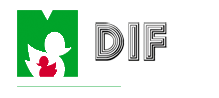
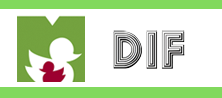
modificando algunos estilos de la principal

diff --git a/css/twbscolor2.css b/css/twbscolor2.css
@@ -3,8 +3,9 @@
     Author     : Weiss
 */
 .navbar-default {
-  background-color: #ffffff;
-  border-color: #FFFFFF;
+  background-color: transparent;
+  border-color: transparent;
+
 }
 .navbar-default .navbar-brand {
   color: #b50031;
@@ -16,7 +17,7 @@
   color: #b50031;
 }
 .navbar-default .navbar-nav > li > a {
-  color: #b50031;
+  color: white;
 }
 .navbar-default .navbar-nav > li > a:hover, .navbar-default .navbar-nav > li > a:focus {
   color: #5aa239;
@@ -52,12 +53,23 @@
 @media (max-width: 767px) {
   .navbar-default .navbar-nav .open .dropdown-menu > li > a {
     color: #b50031;
+
   }
+  .navbar-collapse ul li {
+               background-color: #46AF4A;
+  }
+  #navbar ul li a:hover{
+      color:#B50031;
+  }
+
   .navbar-default .navbar-nav .open .dropdown-menu > li > a:hover, .navbar-default .navbar-nav .open .dropdown-menu > li > a:focus {
-    color: #5aa239;
+   color: #5aa239;
+
+
   }
   .navbar-default .navbar-nav .open .dropdown-menu > .active > a, .navbar-default .navbar-nav .open .dropdown-menu > .active > a:hover, .navbar-default .navbar-nav .open .dropdown-menu > .active > a:focus {
     color: #5aa239;
     background-color: #b50031;
+    
   }
 }

diff --git a/css/municipio1.css b/css/municipio1.css
@@ -16,7 +16,7 @@
     width: 100%;
     height: 200px;
 }
-#menu_principal { background-image: url('../Recursos/header.png'); background-repeat: no-repeat; background-position: center center; }
+#menu_principal { background-image: url('../Recursos/header.jpg'); background-repeat: no-repeat; background-position: center center; }
 
 .regidores {
     border-radius: 25px;

diff --git a/php/boletin_informativo_2.php b/php/boletin_informativo_2.php
@@ -1,13 +1,28 @@
 <div class="modal-header">
     <button type="button" class="close" data-dismiss="modal" aria-hidden="true">&times;</button>
-    <h4 class="modal-title">Boletin informativo 2</h4>
+    <h4 class="modal-title">BALANCE DE TRABAJO DEL PRESIDENTE MUNICIPAL JOSE EDUARDO “CUCO” ROVIROSA RAMIREZ, EN LOS PRIMEROS 15 DIAS DE ACTIVIDADES RUMBO A LAS METAS DE LOS 100 DIAS DE GOBIERNO</h4>
 </div>
 <div class="modal-body">
     <div class="te">
-        <img src="img/boletin/boletin2.png" alt="Boletin informativo 2" class="img-responsive" style="margin: 0 auto;"/><br/>
-        <p class="text-justify">Lorem ipsum ad his scripta blandit partiendo, eum fastidii accumsan euripidis in, eum liber hendrerit an. Qui ut wisi vocibus suscipiantur, quo dicit ridens inciderint id. Quo mundi lobortis reformidans eu, legimus senserit definiebas an eos. Eu sit tincidunt incorrupte definitionem, vis mutat affert percipit cu, eirmod consectetuer signiferumque eu per. In usu latine equidem dolores. Quo no falli viris intellegam, ut fugit veritus placerat per.</p>
-        <p class="text-justify">Ius id vidit volumus mandamus, vide veritus democritum te nec, ei eos debet libris consulatu. No mei ferri graeco dicunt, ad cum veri accommodare. Sed at malis omnesque delicata, usu et iusto zzril meliore. Dicunt maiorum eloquentiam cum cu, sit summo dolor essent te. Ne quodsi nusquam legendos has, ea dicit voluptua eloquentiam pro, ad sit quas qualisque. Eos vocibus deserunt quaestio ei.</p>
-        <p class="text-justify">Blandit incorrupte quaerendum in quo, nibh impedit id vis, vel no nullam semper audiam. Ei populo graeci consulatu mei, has ea stet modus phaedrum. Inani oblique ne has, duo et veritus detraxit. Tota ludus oratio ea mel, offendit persequeris ei vim. Eos dicat oratio partem ut, id cum ignota senserit intellegat. Sit inani ubique graecis ad, quando graecis liberavisse et cum, dicit option eruditi at duo. Homero salutatus suscipiantur eum id, tamquam voluptaria expetendis ad sed, nobis feugiat similique usu ex.</p>
+        <img src="img/boletin/2_1.jpg" alt="Boletin informativo 2" class="img-responsive" style="margin: 0 auto;"/><br/>
+        <p class="text-justify">Macuspana (16-01-2016).- “Estoy comprometido a que mi gobierno sea de intensa y estrecha comunicación con el pueblo, por lo cual estaré informando puntualmente de todas y cada una de las acciones emprendidas para cambiarle el rostro a Macuspana, para responder a esa confianza y apoyo que he encontrado en la sociedad, la cual se encontraba muy agraviada por la desatención”, manifestó en entrevista el presidente municipal José Eduardo “Cuco” Rovirosa Ramírez.</p>
+        <p class="text-justify">Al ajustar las dos primeras semanas de actividades, en las cuales se ha desplegado un intenso trabajo de atención social, el presidente municipal José Eduardo “Cuco” Rovirosa Ramírez hizo un balance de los logros alcanzados, señalando que rumbo a la meta de los “Primeros 100 días de gobierno” se están dando resultados concretos en los rubros de Bacheo en la cabecera municipal y accesos carreteros importantes, así como en el tema del saneamiento del agua potable, la cual llegaba con lodo y bacterias a las tomas domiciliarias.</p>
+        <p class="text-justify">Al respecto, el alcalde de Macuspana informó que se ha logrado controlar las decenas de fugas en las tuberías de agua, principalmente en las líneas de alta presión, para lo cual personal de Sapam abrió orificios de gran profundidad en las calles Reforma, Vicente Guerrero, Alatorre, Circunvalación y León Alejo Torres, por donde se escapaba gran cantidad del vital líquido, lo cual impedía el tratamiento del agua con los químicos requeridos.</p>
+        <p class="text-justify">En estos momentos, dijo, estoy en la condición de informarles que el agua que está llegando a los hogares está completamente saneada y tratada, por lo cual está libre de gérmenes y bacterias que ponían en riesgo la salud pública.</p>
+        <p class="text-justify"> Para ello se adquirieron sustancias químicas para el tratamiento del agua como son los polímeros, gas cloro y una pipa con diez mil litros de sulfato, además de que se lleva a cabo la limpieza integral y desinfección de tanques, filtros y cisterna general. </p>
+        <p class="text-justify">Poco a poco se irá aclarando el agua. Además, se solicitó la intervención de la CONAGUA y el CEAS para darle atención al Sistema de Captación sobre el río Puxcatán, porque debido a la falta de mantenimiento durante años se encuentra azolvada y esto provoca que el agua enviada a la planta se encuentra muy sucia, lo cual daña las bombas y provoca interrupciones en el servicio.</p>
+        <p class="text-justify">De igual forma, se da atención a los cárcamos ubicados en diferentes puntos de la ciudad, los cuales estaban totalmente azolvados, los cuales se están interviniendo con dos camiones tipo Vactor y se solicitó un tercero al gobierno del estado para avanzar más rápido, al tiempo que se revisan las condiciones de las bombas para dejarlas en condiciones normales de funcionamiento.</p>
+        <p class="text-justify">Les comento a los habitantes de las comunidades que también vamos a llegar con la atención a ellos y atender su demanda para que en donde tengan problemas con las bombas o carezcan de ellas se les dé solución y no padezcan la falta del servicio de agua.</p>
+        <p class="text-justify">Como presidente municipal le pido mil disculpas a la ciudadanía por las molestias ocasionadas, sólo les pido que me tengan paciencia y me den un voto de confianza, para sacar a Macuspana de tantos baches. La verdad es que hacía falta atacarlos fuertemente, ya que no eran uno ni dos, y lo estamos haciendo a marchas forzadas, con toda energía, para restablecer la vialidad lo más pronto posible y que los automovilistas ya no sufran por el daño a las piezas mecánicas de sus unidades.</p>
+        <p class="text-justify">Les comento que estoy muy contento con las empresas y ciudadanos de Macuspana por su solidaridad y respeto con esta cruzada de trabajo emprendida rumbo a los “Primeros 100 días de gobierno municipal”, lo cual me obliga a caminar muy solo, sin escoltas y sin policías, para no quitarle la oportunidad a la gente de platicar libremente y saludar a su presidente. Camino diariamente las calles de Macuspana, visito los mercados públicos y disfruto la rica gastronomía con que cuentan, las cuales les recomiendo ampliamente para venir a disfrutar con sus familias. Quiero ganarme el respeto y la confianza de todos, con trabajo y servicio de calidad, por eso desde las 6 de la mañana me encuentran en la puerta de entrada al Palacio Municipal atendiendo a la ciudadanía que viene de las comunidades y colonias, hablándoles de frente y con la verdad, diciéndoles con franqueza lo que se puede y lo que no se puede hacer. </p>
+        <p class="text-justify">Estamos trabajando en Ciudad Pemex, con la rehabilitación y mantenimiento del parque lineal; en Villa Benito Juárez (San Carlos) con bacheo y reparación de los accesos carreteros, desazolve de drenajes y reforzamiento en la recolección de basura.</p>
+        <p class="text-justify">Con apoyo de la Junta Estatal y Local de Caminos, de la mano del ingeniero Rubén Cabrales Quiñonez, resolvimos el pésimo estado del tramo carretero de acceso a la cabecera municipal, bajo el puente a desnivel de la carretera federal Villahermosa-Escárcega, frente a la glorieta “Carlos A. Madrazo”, y el correspondiente a la Avenida Tecnológico que da acceso a la colonia Belén.</p>
+        <p class="text-justify">Y en lo que corresponde al tramo de 5 kilómetros de la carretera del poblado Aquiles Serdán (San Fernando) a la Y Griega de San Carlos, tenemos informes que sus pobladores concretaron un acuerdo con la empresa Mayakán para proceder a su rehabilitación, pues se encuentra en deplorables condiciones que dificultan el tránsito, y estaremos muy al pendiente de su avance.</p>
+        <p class="text-justify">Con respecto al mantenimiento de caminos en las comunidades rurales, que ha sido la demanda constante de los delegados municipales, se están haciendo las gestiones respectivas en coordinación con las autoridades comunitarias para solicitar al gobierno del estado su apoyo, pues cuento con el cariño y solidaridad de los amigos socios de la Unión de Volqueteros de Macuspana para tirar la grava en los caminos dañados una vez que tengamos a la mano los vales que necesitamos.</p>
+        <p class="text-justify">Quiero decirles a los amigos de las Uniones de Taxis del municipio y que lo tengan bien presente, que próximamente buscaré entrevistarme con las autoridades federales de la SCT, para gestionar el mejoramiento de las condiciones del tramo carretero que va de la Caseta de Cobro de Dos Montes a Macuspana, porque representa un serio riesgo a la seguridad de los automovilistas y grandes daños para sus unidades.</p>
+        <p class="text-justify">El alcalde José Eduardo “Cuco” Rovirosa anunció que a partir del 1 de febrero darán inicio los operativos de tránsito, porque no podemos dejar a la ciudadanía indefensa. Por lo cual invitó a todos los conductores a regularizar sus documentos y vehículos motorizados, a retirar los polarizados, hacer uso del cinturón de seguridad, no hablar por el celular si está conduciendo. El llamado incluye tanto a los propietarios de vehículos como a tricicleros y motociclistas. No vengo a asaltar a nadie, ni vengo a querer resolver los problemas de Macuspana con las multas de los ciudadanos, para eso me pinto solo como gestor, pero no podemos dejar indefensa a la sociedad ante cualquier atropello o accidentes que pueda suscitarse, subrayó.</p>
+        <p class="text-justify">En cuanto a las críticas constructivas son bien aceptadas, las atenderemos para mejorar; pero a los golpes mediáticos y sin sustento haremos oídos sordos, porque nadie me va a parar, nadie me va a detener en el objetivo de lograr el progreso para mi pueblo y poner su reloj a tiempo. Que ladren todo lo que quieren, que yo seguiré trabajando arduamente y sin descanso para devolverle la esperanza a Macuspana de tener un mejor futuro.</p>
+        <p class="text-justify">Para concluir, el primer regidor del Ayuntamiento de Macuspana, sobre la relación y colaboración con el gobierno del estado, puntualizó que “estoy muy contento con el gobernador Arturo Núñez y con su esposa, la señora Martha Lilia López Aguilera. La presidenta del DIF estatal le ha brindado una excelente atención a mi esposa Crystel, incluso la acompañó en los primeros días de este mes a la entrega de juguetes en la ranchería Bonanza segunda sección; y con el gobernador les puedo  decir que tenemos una relación de lujo. Los presidentes municipales de otro partido ajenos al suyo  le aprendimos que para el licenciado Núñez el  día 7 de junio ya pasó y quedó atrás, lo único que quiere como gobernador es trabajar bien por Macuspana y por el estado, es un hombre con pasión para componer a Tabasco”.</p>
     </div>
 </div>
 <div class="modal-footer">

diff --git a/index.php b/index.php
@@ -32,17 +32,13 @@
                         <div class="carousel-inner" role="listbox">
 
                             <div class="item active">
-                                <img src="img/slider/imagen1slide.png" alt="Macuspana1"/>
+                                <img src="img/slider/imagen1slide.jpg" alt="Macuspana1"/>
                                 <div class="carousel-caption">
-                                    <h3>Macuspana</h3>
-                                    <p>Lorem ipsum ad his scripta blandit partiendo, eum fastidii accumsan euripidis in, eum liber hendrerit an.</p>
-                                </div>
+                             </div>
                             </div>
                             <div class="item">
-                                <img src="img/slider/imagenslide2.png" alt="Macuspana2">
+                                <img src="img/slider/imagen1slide.jpg" alt="Macuspana2">
                                 <div class="carousel-caption">
-                                    <h3>Macuspana</h3>
-                                    <p>Lorem ipsum ad his scripta blandit partiendo, eum fastidii accumsan euripidis in, eum liber hendrerit an.</p>
                                 </div>
                             </div>
                         </div>
@@ -62,7 +58,7 @@
                 <div class="col-md-12" >
                     <div class="row">
                         <div class="col-md-12" >
-                            <h1 class="visible-md visible-lg">Último tweet</h1>
+                            <h1 class="visible-md visible-lg" style="margin-top: 20px"></h1>
                             <h2 class="visible-xs visible-sm text-center">Último tweet</h2>
                         </div>
                         <div class="col-md-12">
@@ -72,59 +68,78 @@
                 </div>
             </div>
             <div class="row" id="boletines_informativos">
-                <div class="col-md-12">
-                    <h1 class="visible-md visible-lg">Boletines informativos</h1>
-                    <h2 class="visible-xs visible-sm text-center">Boletines informativos</h2>
+                <div class="col-md-12" style="margin-top: 20px">
+
+                 
                 </div>
-                <div class="col-sm-6 col-md-3">
-                    <img src="img/boletin/boletin1.png" alt="Boletin1" class="img-responsive"/><br/>
-                    <p class="text-justify">Lorem ipsum ad his scripta blandit partiendo, eum fastidii accumsan euripidis in, eum liber hendrerit an. Qui ut wisi vocibus suscipiantur, quo dicit ridens inciderint id. Quo mundi lobortis reformidans eu, legimus senserit definiebas an eos. </p>
+                <div class="col-sm-6 col-md-3" >
+                    <img src="img/boletin/1.jpg" alt="Boletin1" class="img-responsive"/><br/>
+                    <p class="text-justify">EL GOBIERNO MUNICIPAL DE MACUSPANA FOMENTA EL DEPORTE CIENCIA </p>
                     <div class="visible-md visible-lg"><a href="javascript:void(0);" data-toggle="modal" data-remote="php/boletin_informativo_1.php" data-target="#mDetalleBoletin" class="btn btn-success">Leer más</a></div>
                     <div class="visible-xs visible-sm text-center"><a href="javascript:void(0);" data-toggle="modal" data-remote="php/boletin_informativo1.php" data-target="#mDetalleBoletin" class="btn btn-success">Leer más</a></div>
                     <br class="visible-xs visible-sm"/>
                 </div>
                 <div class="col-sm-6 col-md-3">
-                    <img src="img/boletin/boletin2.png" alt="Boletin2" class="img-responsive"/><br/>
-                    <p class="text-justify">Lorem ipsum ad his scripta blandit partiendo, eum fastidii accumsan euripidis in, eum liber hendrerit an. Qui ut wisi vocibus suscipiantur, quo dicit ridens inciderint id. Quo mundi lobortis reformidans eu, legimus senserit definiebas an eos. </p>
+                    <img src="img/boletin/2.png" alt="Boletin2" class="img-responsive"/><br/>
+                    <p class="text-justify">15 DIAS DE ACTIVIDADES DEL PRESIDENTE MUNICIPAL JOSE EDUARDO “CUCO” ROVIROSA RAMIREZ</p>
                     <div class="visible-md visible-lg"><a href="javascript:void(0);" data-toggle="modal" data-remote="php/boletin_informativo_2.php" data-target="#mDetalleBoletin" class="btn btn-success">Leer más</a></div>
                     <div class="visible-xs visible-sm text-center"><a href="javascript:void(0);" data-toggle="modal" data-remote="php/boletin_informativo2.php" data-target="#mDetalleBoletin" class="btn btn-success">Leer más</a></div>
                     <br class="visible-xs visible-sm"/>
                 </div>
                 <div class="clearfix visible-sm-block"></div>
                 <div class="col-sm-6 col-md-3">
-                    <img src="img/boletin/boletin3.png" alt="Boletin3" class="img-responsive"/><br/>
-                    <p class="text-justify">Lorem ipsum ad his scripta blandit partiendo, eum fastidii accumsan euripidis in, eum liber hendrerit an. Qui ut wisi vocibus suscipiantur, quo dicit ridens inciderint id. Quo mundi lobortis reformidans eu, legimus senserit definiebas an eos. </p>
+                    <img src="img/boletin/3.jpg" alt="Boletin3" class="img-responsive"/><br/>
+                    <p class="text-justify">PROMUEVE GOBIERNO DE MACUSPANA REFORZAMIENTO DE LA CULTURA DE LA SEGURIDAD Y EL RESPETO A LA LEY DE TRANSITO Y VIALIDAD </p>
                     <div class="visible-md visible-lg"><a href="javascript:void(0);" data-toggle="modal" data-remote="php/boletin_informativo_3.php" data-target="#mDetalleBoletin" class="btn btn-success">Leer más</a></div>
                     <div class="visible-xs visible-sm text-center"><a href="javascript:void(0);" data-toggle="modal" data-remote="php/boletin_informativo3.php" data-target="#mDetalleBoletin" class="btn btn-success">Leer más</a></div>
                     <br class="visible-xs visible-sm"/>
                 </div>
                 <div class="col-sm-6 col-md-3">
-                    <img src="img/boletin/boletin4.png" alt="Boletin4" class="img-responsive"/><br/>
-                    <p class="text-justify">Lorem ipsum ad his scripta blandit partiendo, eum fastidii accumsan euripidis in, eum liber hendrerit an. Qui ut wisi vocibus suscipiantur, quo dicit ridens inciderint id. Quo mundi lobortis reformidans eu, legimus senserit definiebas an eos. </p>
+                    <img src="img/boletin/4.jpg" alt="Boletin4" class="img-responsive"/><br/>
+                    <p class="text-justify">RESTABLECIMIENTO DE SERVICIOS MUNICIPALES, BACHEO Y AGUA DE CALIDAD PARA LA POBLACIÓN</p>
                     <div class="visible-md visible-lg"><a href="javascript:void(0);" data-toggle="modal" data-remote="php/boletin_informativo_4.php" data-target="#mDetalleBoletin" class="btn btn-success">Leer más</a></div>
                     <div class="visible-xs visible-sm text-center"><a href="javascript:void(0);" data-toggle="modal" data-remote="php/boletin_informativo4.php" data-target="#mDetalleBoletin" class="btn btn-success">Leer más</a></div>
                     <br class="visible-xs visible-sm"/>
                 </div>
+                
                 <div class="clearfix visible-sm-block"></div>
                 <div class="clearfix visible-md-block"></div>
             </div>
-            <div class="row top-buffer" id="banners">
+                  <div class="row top-buffer" id="banners">
                 <div class="col-sm-6 col-md-6"><img src="Recursos/logo_videoteca.png" alt="" class="img-responsive"/></div>
                 <div class="col-sm-6 col-md-6"><img src="Recursos/GALERIA.png" alt="" class="img-responsive"/></div>
                 <div class="clearfix visible-md-block"></div>
                 <div class="clearfix visible-sm-block"></div>
-                <div class="col-xs-6 col-sm-3 col-md-3 marco">
-                    <img src="Recursos/itaip.png" alt="" class="img-responsive"/>
-                </div>
-                <div class="col-xs-6 col-sm-3 col-md-3 marco">
+                <div class="col-xs-6 col-sm-3 col-md-3 ">
                     <img src="Recursos/SINHAMBRE.png" alt="" class="img-responsive"/>
                 </div>
-                <div class="clearfix visible-xs-block"></div>
-                <div class="col-xs-6 col-sm-3 col-md-3 marco">
+                <div class="col-xs-6 col-sm-3 col-md-3 ">
                     <img src="Recursos/dif.png" alt="" class="img-responsive"/>
                 </div>
-                <div class="col-xs-6 col-sm-3 col-md-3 marco">
+                <div class="clearfix visible-xs-block"></div>
+                <div class="col-xs-6 col-sm-3 col-md-3 ">
                     <img src="Recursos/PROTECCIONCIVILMASCUSPANA.png" alt="" class="img-responsive"/>
+                </div>
+                <div class="col-xs-6 col-sm-3 col-md-3 ">
+                
+                </div>
+                <div class="clearfix visible-xs-block"></div>
+                <div class="clearfix visible-md-block"></div>
+                <div class="clearfix visible-sm-block"></div>
+            </div>
+            <div class="row top-buffer" id="banners">
+                <div class="col-xs-6 col-sm-3 col-md-3 ">
+                    <img src="Recursos/banner_transparencia.png" alt="" class="img-responsive"/>
+                </div>
+                <div class="col-xs-6 col-sm-3 col-md-3 ">
+                    <img src="Recursos/itaip.png" alt="" class="img-responsive"/>
+                </div>
+                <div class="clearfix visible-xs-block"></div>
+                <div class="col-xs-6 col-sm-3 col-md-3 ">
+                    <img src="Recursos/banner_encuesta.png" alt="" class="img-responsive"/>
+                </div>
+                <div class="col-xs-6 col-sm-3 col-md-3 ">
+                    <img src="Recursos/banner_infomex.png" alt="" class="img-responsive"/>
                 </div>
                 <div class="clearfix visible-xs-block"></div>
                 <div class="clearfix visible-md-block"></div>

diff --git a/php/boletin_informativo_4.php b/php/boletin_informativo_4.php
@@ -1,13 +1,16 @@
 <div class="modal-header">
     <button type="button" class="close" data-dismiss="modal" aria-hidden="true">&times;</button>
-    <h4 class="modal-title">Boletin informativo 4</h4>
+    <h4 class="modal-title">RESTABLECIMIENTO DE SERVICIOS MUNICIPALES, BACHEO Y AGUA DE CALIDAD PARA LA POBLACIÓN, COMPROMISOS INMEDIATOS DEL ALCALDE ENTRANTE CUCO ROVIROSA EN MACUSPANA.</h4>
 </div>
 <div class="modal-body">
     <div class="te">
-        <img src="img/boletin/boletin4.png" alt="Boletin informativo 1" class="img-responsive" style="margin: 0 auto;"/><br/>
-        <p class="text-justify">Lorem ipsum ad his scripta blandit partiendo, eum fastidii accumsan euripidis in, eum liber hendrerit an. Qui ut wisi vocibus suscipiantur, quo dicit ridens inciderint id. Quo mundi lobortis reformidans eu, legimus senserit definiebas an eos. Eu sit tincidunt incorrupte definitionem, vis mutat affert percipit cu, eirmod consectetuer signiferumque eu per. In usu latine equidem dolores. Quo no falli viris intellegam, ut fugit veritus placerat per.</p>
-        <p class="text-justify">Ius id vidit volumus mandamus, vide veritus democritum te nec, ei eos debet libris consulatu. No mei ferri graeco dicunt, ad cum veri accommodare. Sed at malis omnesque delicata, usu et iusto zzril meliore. Dicunt maiorum eloquentiam cum cu, sit summo dolor essent te. Ne quodsi nusquam legendos has, ea dicit voluptua eloquentiam pro, ad sit quas qualisque. Eos vocibus deserunt quaestio ei.</p>
-        <p class="text-justify">Blandit incorrupte quaerendum in quo, nibh impedit id vis, vel no nullam semper audiam. Ei populo graeci consulatu mei, has ea stet modus phaedrum. Inani oblique ne has, duo et veritus detraxit. Tota ludus oratio ea mel, offendit persequeris ei vim. Eos dicat oratio partem ut, id cum ignota senserit intellegat. Sit inani ubique graecis ad, quando graecis liberavisse et cum, dicit option eruditi at duo. Homero salutatus suscipiantur eum id, tamquam voluptaria expetendis ad sed, nobis feugiat similique usu ex.</p>
+        <img src="img/boletin/4_1.jpg" alt="Boletin informativo 1" class="img-responsive" style="margin: 0 auto;"/><br/>
+        <p class="text-justify">Macuspana, Diciembre 31.- Ante el colapso de los servicios municipales por el conflicto laboral de trabajadores del Ayuntamiento durante las últimas semanas, luego de tomar protesta como presidente municipal constitucional, José Eduardo “Cuco” Rovirosa Ramírez, se comprometió a reactivar en los inmediato el suministro de agua potable de calidad, la recolección de la basura, el mantenimiento a los parques y jardinería, así como rehabilitación del alumbrado público y bacheo de las calles de la ciudad.</p>
+        <p class="text-justify">Congruente con el discurso dado a conocer luego de su triunfo electoral el 7 de junio pasado, Cuco Rovirosa reiteró que los tiempos actuales son de trabajo y ofrecer resultados tangibles a la sociedad, “ahorita no hay nada que festejar”, dijo en alusión a las deplorables condiciones en que se encuentra el municipio en los rubros de caminos rurales, carreteras de asfalto, calles de la ciudad destruidas, drenajes azolvados y rotos, servicios municipales inoperantes y cargas financieras por resolver.</p>
+        <p class="text-justify">A las 9 de la mañana de este 31 de diciembre, en el edificio del Ayuntamiento, se llevó a cabo la sesión pública de Cabildo, donde regidores y el alcalde saliente Víctor González Valerio entregaron la estafeta del gobierno municipal a José Eduardo “Cuco” Rovirosa Ramírez y los 13 ediles que lo acompañarán los próximos tres años. En este acto oficial acudió como testigo de honor y como representante personal del gobernador Arturo Núñez Jiménez, el Secretario de Gobierno César Raúl Ojeda Zubieta.</p>
+        <p class="text-justify">Luego de que terminó el acto protocolario en el Ayuntamiento, el presidente municipal José Eduardo “Cuco” Rovirosa junto con el Secretario de Gobierno, César Raúl Ojeda Zubieta, regidores, colaboradores, amigos y decenas de seguidores asistió al Café de Pancho, frente al parque central de Macuspana, en donde agradeció a los presentes su apoyo y respaldo al proyecto municipal que encabeza, además de asegurarles que “vamos a trabajar para cambiar el rostro de Macuspana, para que haya seguridad y paz social. No vengo con rencores ni revanchismo de ningún tipo. La campaña política quedó atrás, mi mano está extendida para toda la población sin distingo de partidos, colores ni credos”, reafirmó el político de Tepetitán.</p>
+        <p class="text-justify">Al mediodía acudió a la radio local para dar a conocer sus compromisos inmediatos, recibir las impresiones de la población y advertir que no le va a temblar la mano para despedir del gobierno a todo aquel funcionario, incluyendo a los miembros de la corporación policial, que sea detectado en actos indebidos  o que le fallen deliberadamente a la población.</p>
+        <p class="text-justify">Para cerrar este día de intensa actividad, Cuco Rovirosa abrió las puertas de su domicilio, ubicado en la calle Circunvalación de esta ciudad, para toda la ciudadanía del municipio que deseaba saludar a su presidente municipal, quien se ha distinguido por ser una persona humanitaria, sencilla y carismática,  cualidades que le permitió ganar por segunda ocasión las elecciones municipales en un municipio harto polarizado políticamente como es Macuspana.</p>
     </div>
 </div>
 <div class="modal-footer">

diff --git a/php/boletin_informativo_1.php b/php/boletin_informativo_1.php
@@ -1,14 +1,16 @@
 <div class="modal-header">
     <button type="button" class="close" data-dismiss="modal" aria-hidden="true">&times;</button>
-    <h4 class="modal-title">Boletin informativo 1</h4>
+    <h4 class="modal-title">EL GOBIERNO MUNICIPAL DE MACUSPANA FOMENTA EL DEPORTE CIENCIA</h4>
 </div>
 <div class="modal-body">
     <div class="te">
-        <img src="img/boletin/boletin1.png" alt="Boletin informativo 1" class="img-responsive" style="margin: 0 auto;"/><br/>
-        <p class="text-justify">Lorem ipsum ad his scripta blandit partiendo, eum fastidii accumsan euripidis in, eum liber hendrerit an. Qui ut wisi vocibus suscipiantur, quo dicit ridens inciderint id. Quo mundi lobortis reformidans eu, legimus senserit definiebas an eos. Eu sit tincidunt incorrupte definitionem, vis mutat affert percipit cu, eirmod consectetuer signiferumque eu per. In usu latine equidem dolores. Quo no falli viris intellegam, ut fugit veritus placerat per.</p>
-        <p class="text-justify">Ius id vidit volumus mandamus, vide veritus democritum te nec, ei eos debet libris consulatu. No mei ferri graeco dicunt, ad cum veri accommodare. Sed at malis omnesque delicata, usu et iusto zzril meliore. Dicunt maiorum eloquentiam cum cu, sit summo dolor essent te. Ne quodsi nusquam legendos has, ea dicit voluptua eloquentiam pro, ad sit quas qualisque. Eos vocibus deserunt quaestio ei.</p>
-        <p class="text-justify">Blandit incorrupte quaerendum in quo, nibh impedit id vis, vel no nullam semper audiam. Ei populo graeci consulatu mei, has ea stet modus phaedrum. Inani oblique ne has, duo et veritus detraxit. Tota ludus oratio ea mel, offendit persequeris ei vim. Eos dicat oratio partem ut, id cum ignota senserit intellegat. Sit inani ubique graecis ad, quando graecis liberavisse et cum, dicit option eruditi at duo. Homero salutatus suscipiantur eum id, tamquam voluptaria expetendis ad sed, nobis feugiat similique usu ex.</p>
-    </div>
+        <img src="img/boletin/1_3.jpg" alt="Boletin informativo 1" class="img-responsive" style="margin: 0 auto;"/><br/>
+        <p class="text-justify">Macuspana (16-01-2016).- Con la presencia de la señora Crystel Hernández de Rovirosa, presidenta del DIF municipal, hoy sábado se realizó el “Torneo Estatal de Invierno de Ajedrez “en diferentes categorías, donde se contó con la participación de sesenta ajedrecistas de toda la entidad, los cuales lograron demostrar sus conocimientos y destrezas en el también llamado deporte ciencia.</p>
+        <p class="text-justify">Teniendo como sede la escuela primaria “Rafael Ramírez” de la colonia Los Gatos de esta ciudad, los equipos participantes reunidos desde muy temprano recibieron como invitada especial a la esposa del presidente municipal, José Eduardo “Cuco” Rovirosa Ramírez, la señora Crystel Hernández de Rovirosa, quien entregó la premiación a los ganadores de las distintas categorías, al tiempo que refrendó el compromiso del gobierno municipal de fomentar el deporte en todo el municipio.</p>
+        <p class="text-justify">El Torneo de Invierno fue dividido en cuatro categorías, en la modalidad rápido a cinco rondas, donde participaron los sesenta ajedrecistas inscritos,  siendo los jueces de varios clubes de este deporte ciencia, tales como el Club de Ajedrez “Caballo Negro” de Macuspana que preside Javier Pérez Narváez y la maestra Alma Delia Gómez Morales, quienes en todo momento estuvieron pendientes de las jugadas de los participantes.</p>
+        <p class="text-justify">Este Torneo Estatal de Ajedrez fue organizado por la Dirección Estatal de Educación Física, el Club de Ajedrez “Caballo Negro” y la Coordinación Municipal de Deportes de Macuspana, donde resultaron  ganadores en las categorías Sub Ocho los siguientes participantes: en primer lugar Javier Solís Félix; en segundo sitio Ernesto Boylan García y en tercer lugar, quedó Elián Trujillo Rodríguez.</p>
+        <p class="text-justify">En la Sub diez, el primer lugar fue para Jorge Alejandro González López; segundo sitio para Ana Mary Hernández Franco y Francisco Javier Jiménez Echavarría quedó en tercer lugar. En tanto que en la Sub doce ganó Guadalupe Charre Pérez, siendo el segundo sitio para Viviana Méndez López y el último sitio le correspondió a Joselyn Jiménez Echavarría: por su parte, en la categoría Libre la ganadora fue Danny Magdalena Morales Álvarez; Julio Méndez Pacheco quedó en segundo sitio y en tercer lugar fue para Ángel David Reyes Guzmán. </p> 
+        <p class="text-justify">Representando al municipio de Macuspana estuvieron, entre otros,  los Clubes de Ajedrez “Caballo Negro “de esta ciudad,  “Jaque Mate” de la Villa Benito Juárez, “Torre Negra” de Ciudad Pemex y “Mario Jordán” de la Colonia Belén.</p> </div>
 </div>
 <div class="modal-footer">
     <button type="button" class="btn btn-default" data-dismiss="modal">Cerrar</button>

diff --git a/php/boletin_informativo_3.php b/php/boletin_informativo_3.php
@@ -1,13 +1,16 @@
 <div class="modal-header">
     <button type="button" class="close" data-dismiss="modal" aria-hidden="true">&times;</button>
-    <h4 class="modal-title">Boletin informativo 3</h4>
+    <h4 class="modal-title">PROMUEVE GOBIERNO DE MACUSPANA REFORZAMIENTO DE LA CULTURA DE LA SEGURIDAD Y EL RESPETO A LA LEY DE TRANSITO Y VIALIDAD </h4>
 </div>
 <div class="modal-body">
     <div class="te">
-        <img src="img/boletin/boletin3.png" alt="Boletin informativo 3" class="img-responsive" style="margin: 0 auto;"/><br/>
-        <p class="text-justify">Lorem ipsum ad his scripta blandit partiendo, eum fastidii accumsan euripidis in, eum liber hendrerit an. Qui ut wisi vocibus suscipiantur, quo dicit ridens inciderint id. Quo mundi lobortis reformidans eu, legimus senserit definiebas an eos. Eu sit tincidunt incorrupte definitionem, vis mutat affert percipit cu, eirmod consectetuer signiferumque eu per. In usu latine equidem dolores. Quo no falli viris intellegam, ut fugit veritus placerat per.</p>
-        <p class="text-justify">Ius id vidit volumus mandamus, vide veritus democritum te nec, ei eos debet libris consulatu. No mei ferri graeco dicunt, ad cum veri accommodare. Sed at malis omnesque delicata, usu et iusto zzril meliore. Dicunt maiorum eloquentiam cum cu, sit summo dolor essent te. Ne quodsi nusquam legendos has, ea dicit voluptua eloquentiam pro, ad sit quas qualisque. Eos vocibus deserunt quaestio ei.</p>
-        <p class="text-justify">Blandit incorrupte quaerendum in quo, nibh impedit id vis, vel no nullam semper audiam. Ei populo graeci consulatu mei, has ea stet modus phaedrum. Inani oblique ne has, duo et veritus detraxit. Tota ludus oratio ea mel, offendit persequeris ei vim. Eos dicat oratio partem ut, id cum ignota senserit intellegat. Sit inani ubique graecis ad, quando graecis liberavisse et cum, dicit option eruditi at duo. Homero salutatus suscipiantur eum id, tamquam voluptaria expetendis ad sed, nobis feugiat similique usu ex.</p>
+        <img src="img/boletin/3_1.jpg" alt="Boletin informativo 3" class="img-responsive" style="margin: 0 auto;"/><br/>
+        <p class="text-justify">Macuspana (18-01-2016).- Con el fin de brindar una mayor protección y seguridad a la ciudadanía, el Ayuntamiento de Macuspana, a través de  la dirección de Tránsito Municipal, que dirige Felicito Cruz Jiménez, informa a la población en general que a partir del 1 de febrero del presente año, iniciarán los operativos de tránsito vial en la cabecera municipal y comunidades</p>
+        <p class="text-justify">Lo anterior en atención al compromiso del presidente municipal José Eduardo “Cuco” Rovirosa Ramírez, quien señaló que “no podemos dejar indefensa a la ciudadanía” ante la presencia de actos delictivos o accidentes ocasionados por los conductores de vehículos automotores y de tracción humana.</p>
+        <p class="text-justify">El director de Tránsito Municipal, Felicito Cruz Jiménez, indicó que el presidente municipal amplió una tregua hasta fin del mes de enero para todos los conductores, para darles la oportunidad de regularizarse en la documentación de sus unidades y permisos de conducir, por lo cual no se les está aplicando las sanciones que marca el Reglamento de Tránsito.</p>
+        <p class="text-justify">Sin embargo, subrayó que del 1 de febrero en adelante, la dirección de Tránsito Municipal arrancará con los operativos de seguridad vial, donde todos los conductores de vehículos particulares, motorizados y de tracción humana, así como del servicio de transporte público, deberán cumplir con los requisitos establecidos en la Ley General de Tránsito y Vialidad.</p>
+        <p class="text-justify">Añadió que con la finalidad de reactivar la cultura de portar el cinturón de seguridad, el casco, la prohibición de usar el teléfono celular mientras conduce, evitar el uso de vidrios polarizados en sus unidades, y la regularización del pago de tenencia y emplacamiento, además de abstenerse de ingerir bebidas embriagantes al conducir o manejar en estado de ebriedad, se reforzará la vigilancia de tránsito vial, pues dichas infracciones a la Ley General de Tránsito y Vialidad se encuentran previstas y sancionadas en los artículos 86 frac XI , 87 frac. I, X, XXVI, Art. 33,34 Y 37  del mencionado ordenamiento.</p>
+        <p class="text-justify">El titular de Tránsito Municipal puntualizó diciendo que con el cumplimiento a los reglamentos tendremos una mejor cultura vial y de seguridad, además de fomentar el respeto a la vida e integridad humana al prevenirse un gran porcentaje de accidentes que se derivan de la violación a estas normas de tránsito, “Porque Lo Bueno Siempre Regresa”.</p>
     </div>
 </div>
 <div class="modal-footer">

diff --git a/php/include_header.php b/php/include_header.php
@@ -15,20 +15,20 @@ if (isset($origin) && $origin != "") {
 </div>-->
 <div class="row" id="menu_principal">
     <div class="col-sm-2 col-md-2">
-        <div class="visible-lg"><a href="<?php echo($origin == "" ? "index.php" : "../index.php"); ?>"><img src="<?php echo($path); ?>img/Logo1.gif" alt="Logo H. Ayuntamiento de Macuspana 2016-2018" style="width: 132px; height: 141px"/></a></div>
+        <div class="visible-lg"><a href="<?php echo($origin == "" ? "index.php" : "../index.php"); ?>"><img src="<?php echo($path); ?>img/Logo.png" alt="Logo H. Ayuntamiento de Macuspana 2016-2018" style="margin:40px 0px 20px 20px; width: 122px; height: 121px"/></a></div>
         <br class="visible-md visible-sm"/>
-        <div class="visible-md visible-sm"><a href="<?php echo($origin == "" ? "index.php" : "../index.php"); ?>"><img src="<?php echo($path); ?>img/Logo1.gif" alt="Logo H. Ayuntamiento de Macuspana 2016-2018" style="width: 152px; height: 151px"/></a></div>
-        <div class="visible-xs"><a href="<?php echo($origin == "" ? "index.php" : "../index.php"); ?>"><img src="<?php echo($path); ?>img/Logo1.gif" alt="Logo H. Ayuntamiento de Macuspana 2016-2018" class="img-responsive" style="margin:0 auto;"/></a></div>
+        <div class="visible-md visible-sm"><a href="<?php echo($origin == "" ? "index.php" : "../index.php"); ?>"><img src="<?php echo($path); ?>img/Logo.png" alt="Logo H. Ayuntamiento de Macuspana 2016-2018" style="margin:40px 0px 20px 20px; width: 122px; height: 121px"/></a></div>
+        <div class="visible-xs"><a href="<?php echo($origin == "" ? "index.php" : "../index.php"); ?>"><img src="<?php echo($path); ?>img/Logo.png" alt="Logo H. Ayuntamiento de Macuspana 2016-2018" class="img-responsive" style="margin:40px auto;"/></a></div>
     </div>
     <div class="col-sm-10 col-md-10">
         <div class="row">
-            <div class="col-md-12 text-right">
+            <div class="col-md-12 text-right" style="margin-top: 100px ">
                 <a href="https://www.youtube.com" target="_blank"><img src="<?php echo($path); ?>Recursos/youtube-icon.png" alt="Youtube"/></a>&nbsp;&nbsp;
                 <a href="https://www.facebook.com/profile.php?id=100011023263491" target="_blank"><img src="<?php echo($path); ?>Recursos/facebook-icon.png" alt="Facebook"/></a>&nbsp;&nbsp;
                 <a href="https://twitter.com/A_Macuspana?lang=es" target="_blank"><img src="<?php echo($path); ?>Recursos/twitter-icon.png" alt="Twitter"/></a>
             </div>
-            <div class="col-md-12">
-                <nav class="navbar navbar-default">
+            <div class="col-md-12" >
+                <nav class="navbar navbar-default" >
                     <div class="container-fluid">
                         <div class="navbar-header">
                             <button type="button" class="navbar-toggle collapsed" data-toggle="collapse" data-target="#navbar">
@@ -38,9 +38,9 @@ if (isset($origin) && $origin != "") {
                                 <span class="icon-bar"></span>
                             </button>
                         </div>
-                        <div id="navbar" class="navbar-collapse collapse">
-                            <ul class="nav navbar-nav">
-                                <li <?php echo($origin == "" ? "class=\"active\"" : ""); ?>><a href="<?php echo($origin == "" ? "index.php" : "../index.php"); ?>">Inicio</a></li>
+                        <div id="navbar" class="navbar-collapse collapse" >
+                            <ul class="nav navbar-nav" >
+                                <li  <?php echo($origin == "" ? "class=\"active\"" : ""); ?>><a href="<?php echo($origin == "" ? "index.php" : "../index.php"); ?>">Inicio</a></li>
                                 <li <?php echo($origin == "presidencia" ? "class=\"active\"" : ""); ?>><a href="<?php echo($origin == "" ? "php/" : ""); ?>presidencia.php">Presidencia</a></li>
                                 <li <?php echo($origin == "ayuntamiento" ? "class=\"active\"" : ""); ?>><a href="<?php echo($origin == "" ? "php/" : ""); ?>ayuntamiento.php">H. Ayuntamiento</a></li>
                                 <li <?php echo($origin == "dependencias" ? "class=\"active\"" : ""); ?>><a href="<?php echo($origin == "" ? "php/" : ""); ?>dependencias.php">Dependencias</a></li>

diff --git a/php/include_footer.php b/php/include_footer.php
@@ -18,7 +18,6 @@ if(isset($origin) && $origin != "")
         <ul>
             <li style="list-style-image: url( <?php echo($path);?>img/direccion_ico.png)">Dirección: Plaza de La Constitución, Centro, C.P. 86706, Macuspana, Tabasco.</li>
             <li style="list-style-image: url( <?php echo($path);?>img/telefono_ico.png)">Teléfono: 01-936-362-0521</li>
-            <li style="list-style-image: url( <?php echo($path);?>img/email_ico.png)">Correo electrónico: Por definir</li>
         </ul>
     </div>
     <div class="col-sm-12 col-md-5">
